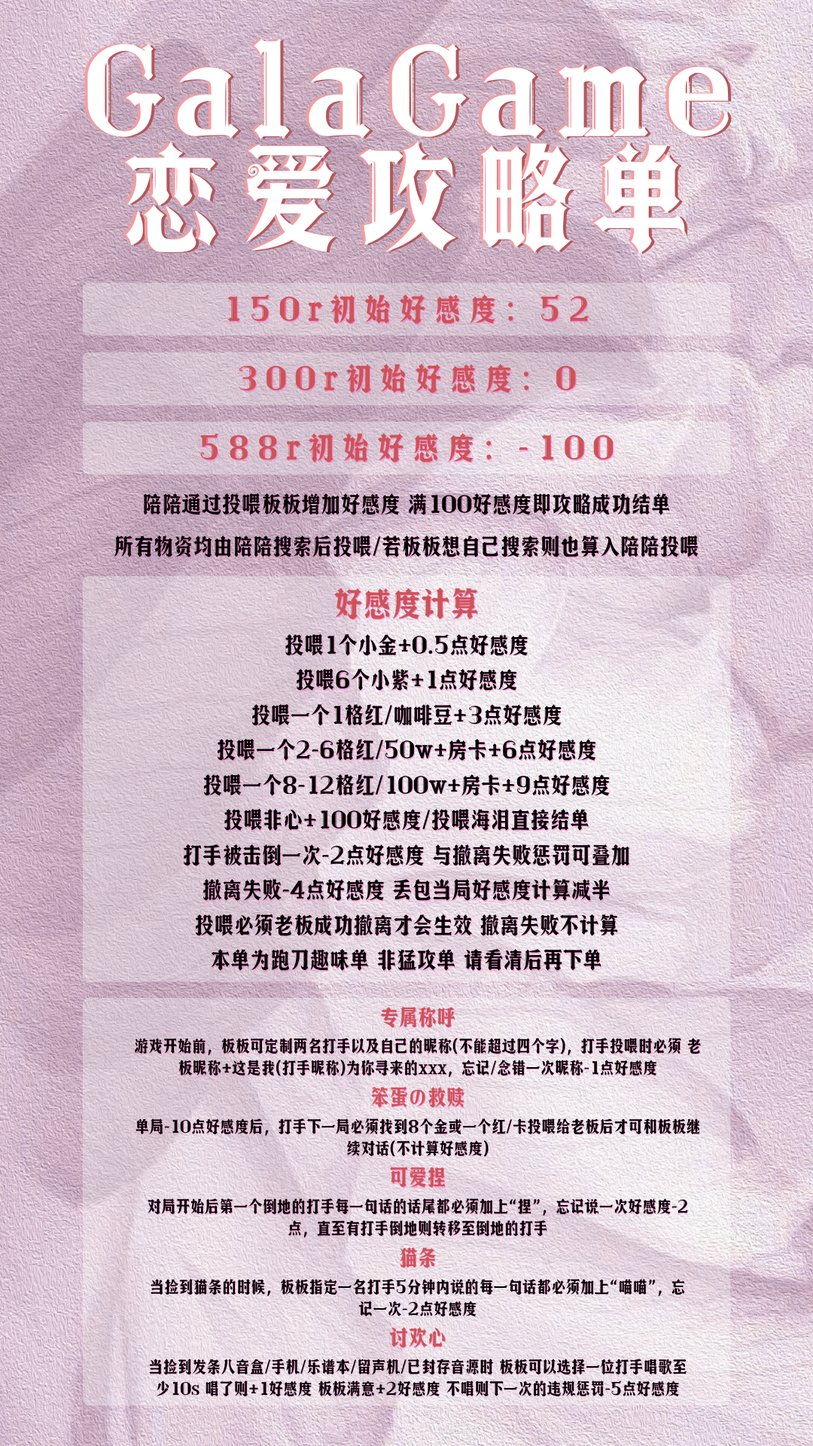
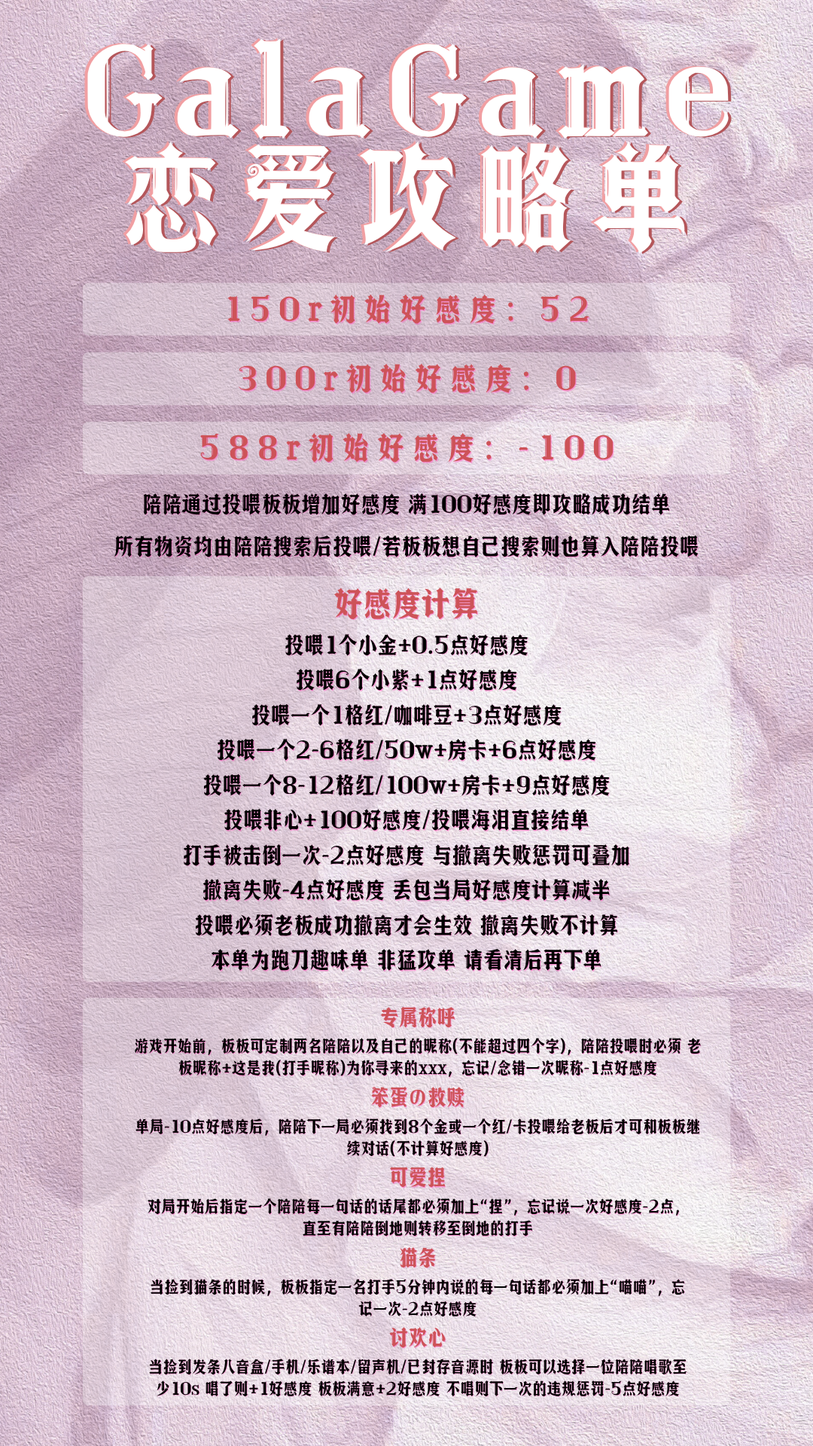
跑刀趣味单GalaGame换新v7

diff --git a/deploy/index.html b/deploy/index.html
@@ -328,7 +328,7 @@ var ITEMS = [
 {name:"跑刀小小巨人", cat:"funrun", imgs:["https://patheia-1323749045.cos.ap-shanghai.myqcloud.com/peiwans-price/img/GyoObd8SGo7t2KxV0kzcRjiBnub.png"]},
   {name:"摸贝小小巨人", cat:"funrun", imgs:["https://patheia-1323749045.cos.ap-shanghai.myqcloud.com/peiwans-price/img/W4yfb6xgwoX60Hx7eu9czT3Qnfe.png"]},
   {name:"我嘞个只吃金红", cat:"funrun", imgs:["https://patheia-1323749045.cos.ap-shanghai.myqcloud.com/peiwans-price/img/MPYVbkUSmog4cZxPi84cltGxnmh.png"]},
-  {name:"GalaGame恋爱攻略单", cat:"funrun", imgs:["https://patheia-1323749045.cos.ap-shanghai.myqcloud.com/peiwans-price/img/galagame-liangonglue-v6.png"]},
+  {name:"GalaGame恋爱攻略单", cat:"funrun", imgs:["https://patheia-1323749045.cos.ap-shanghai.myqcloud.com/peiwans-price/img/galagame-liangonglue-v7.png"]},
   {name:"超临界AZ3专区价格表", cat:"price", zone:"az3", imgs:["https://patheia-1323749045.cos.ap-shanghai.myqcloud.com/peiwans-price/img/az3-jiage.png"]},
   {name:"巴克什专区价格表", cat:"price", zone:"bakeshi", imgs:["https://patheia-1323749045.cos.ap-shanghai.myqcloud.com/peiwans-price/img/bakeshi-jiage.png"]},
   {name:"机密陪玩价格表", cat:"price", zone:"jimi", imgs:["https://patheia-1323749045.cos.ap-shanghai.myqcloud.com/peiwans-price/img/jimi-peiwan-jiage-v2.png"]}

diff --git a/index.html b/index.html
@@ -371,7 +371,7 @@ var ITEMS = [
 {name:"跑刀小小巨人", cat:"funrun", imgs:["https://patheia-1323749045.cos.ap-shanghai.myqcloud.com/peiwans-price/img/paodaoxiaojuren-v2.png"]},
   {name:"摸贝小小巨人", cat:"funrun", imgs:["https://patheia-1323749045.cos.ap-shanghai.myqcloud.com/peiwans-price/img/W4yfb6xgwoX60Hx7eu9czT3Qnfe.png"]},
   {name:"我嘞个只吃金红", cat:"funrun", imgs:["https://patheia-1323749045.cos.ap-shanghai.myqcloud.com/peiwans-price/img/MPYVbkUSmog4cZxPi84cltGxnmh.png"]},
-  {name:"GalaGame恋爱攻略单", cat:"funrun", imgs:["https://patheia-1323749045.cos.ap-shanghai.myqcloud.com/peiwans-price/img/galagame-liangonglue-v6.png"]},
+  {name:"GalaGame恋爱攻略单", cat:"funrun", imgs:["https://patheia-1323749045.cos.ap-shanghai.myqcloud.com/peiwans-price/img/galagame-liangonglue-v7.png"]},
   {name:"超临界AZ3专区价格表", cat:"price", zone:"az3", imgs:["https://patheia-1323749045.cos.ap-shanghai.myqcloud.com/peiwans-price/img/az3-jiage.png"]},
   {name:"巴克什专区价格表", cat:"price", zone:"bakeshi", imgs:["https://patheia-1323749045.cos.ap-shanghai.myqcloud.com/peiwans-price/img/bakeshi-jiage.png"]},
   {name:"机密陪玩价格表", cat:"price", zone:"jimi", imgs:["https://patheia-1323749045.cos.ap-shanghai.myqcloud.com/peiwans-price/img/jimi-peiwan-jiage-v2.png"]}

diff --git a/免保陪玩价格表.html b/免保陪玩价格表.html
@@ -371,7 +371,7 @@ var ITEMS = [
 {name:"跑刀小小巨人", cat:"funrun", imgs:["https://patheia-1323749045.cos.ap-shanghai.myqcloud.com/peiwans-price/img/paodaoxiaojuren-v2.png"]},
   {name:"摸贝小小巨人", cat:"funrun", imgs:["https://patheia-1323749045.cos.ap-shanghai.myqcloud.com/peiwans-price/img/W4yfb6xgwoX60Hx7eu9czT3Qnfe.png"]},
   {name:"我嘞个只吃金红", cat:"funrun", imgs:["https://patheia-1323749045.cos.ap-shanghai.myqcloud.com/peiwans-price/img/MPYVbkUSmog4cZxPi84cltGxnmh.png"]},
-  {name:"GalaGame恋爱攻略单", cat:"funrun", imgs:["https://patheia-1323749045.cos.ap-shanghai.myqcloud.com/peiwans-price/img/galagame-liangonglue-v6.png"]},
+  {name:"GalaGame恋爱攻略单", cat:"funrun", imgs:["https://patheia-1323749045.cos.ap-shanghai.myqcloud.com/peiwans-price/img/galagame-liangonglue-v7.png"]},
   {name:"超临界AZ3专区价格表", cat:"price", zone:"az3", imgs:["https://patheia-1323749045.cos.ap-shanghai.myqcloud.com/peiwans-price/img/az3-jiage.png"]},
   {name:"巴克什专区价格表", cat:"price", zone:"bakeshi", imgs:["https://patheia-1323749045.cos.ap-shanghai.myqcloud.com/peiwans-price/img/bakeshi-jiage.png"]},
   {name:"机密陪玩价格表", cat:"price", zone:"jimi", imgs:["https://patheia-1323749045.cos.ap-shanghai.myqcloud.com/peiwans-price/img/jimi-peiwan-jiage-v2.png"]}
